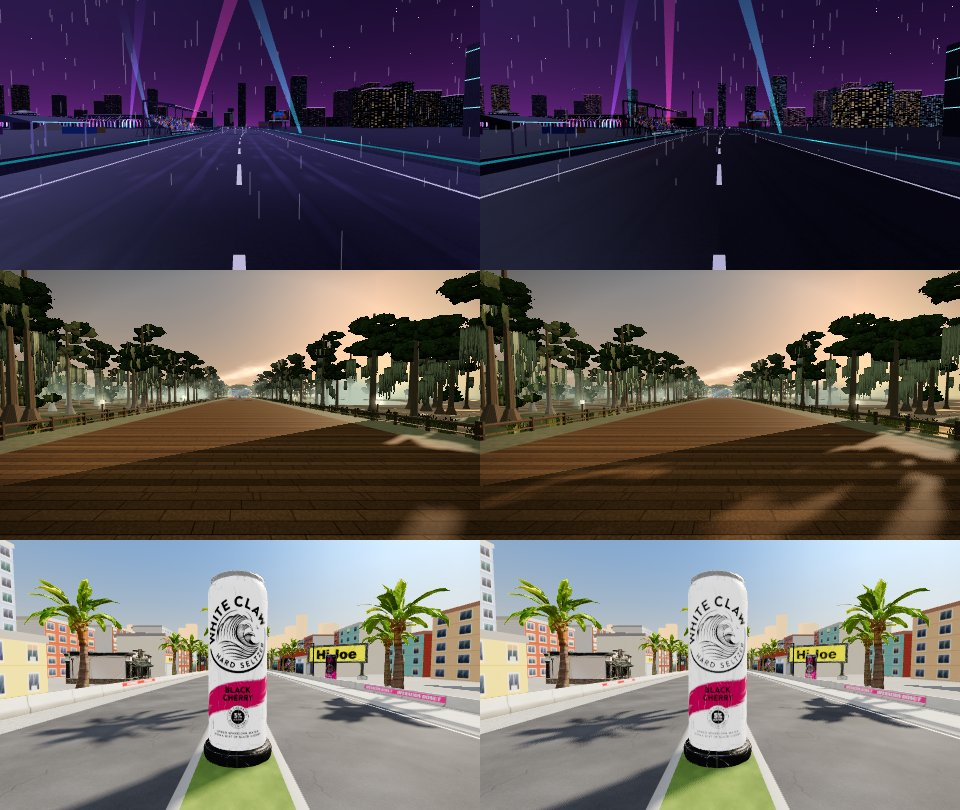
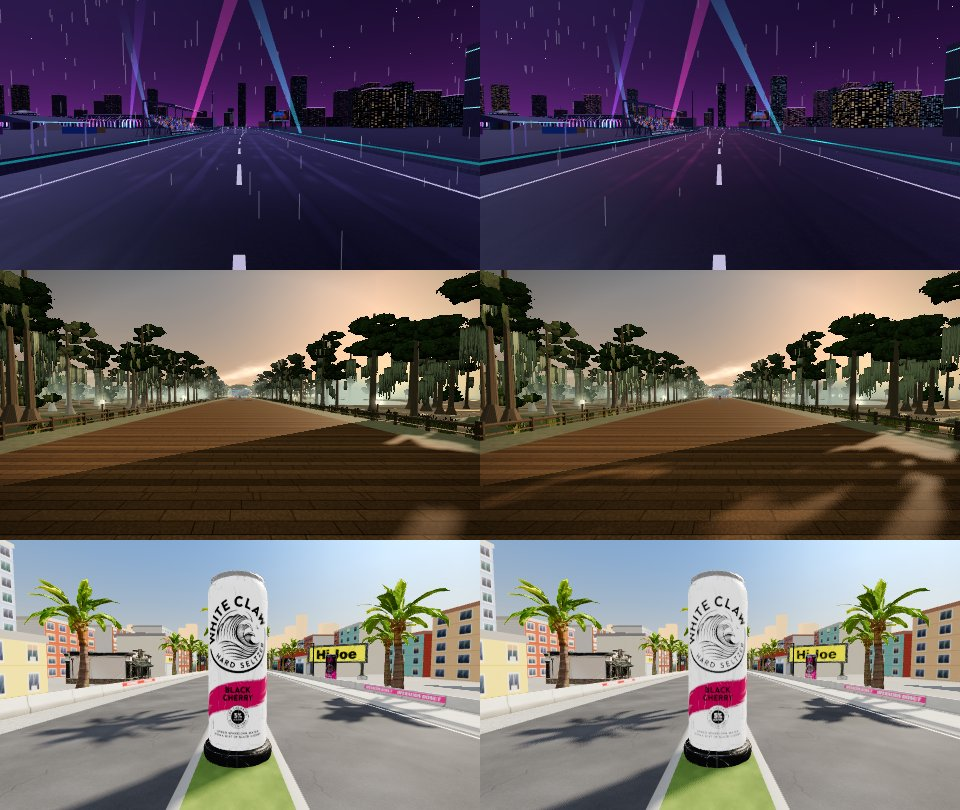
Graphics V2 Phase 2: final parity numbers and other-track comparison
Claude-Session: https://claude.ai/code/session_01WCM2CsKUfkebZADsxywb7t

diff --git a/docs/graphics-v2/07-phase2-threejs-migration-report.md b/docs/graphics-v2/07-phase2-threejs-migration-report.md
@@ -43,7 +43,7 @@ r186 and r128.
 | Normalised attributes are denormalised by `getX()` (r139+) | Revolution height grid and culling bounds read quantised positions | No change needed: that code reads the raw arrays and applies its own factors, so it gives the same result on both versions |
 | Default shader precision / GLSL 3 | All 10 custom `ShaderMaterial`s (sky, ocean, neon ×n, Revolution water and portal) | No change needed: they only use `fog_*`, `common`, `begin_vertex` and `project_vertex`, which still exist, and three's GLSL3 shims keep `gl_FragColor`/`texture2D` working |
 | Each texture map has its own UV transform (r151); r128 used `map`'s transform for every map | Neon Foundry's puddle roughness map (its own repeat) | `GFX.compat.legacyUVTransforms(scene)` on legacy looks |
-| PMREM rough mips are much darker for dark environments with small bright emitters (measured ≈10× on the Neon wet road) | Neon Foundry wet-road sheen | `GFX.compat.tagLegacyEnv(env,12)` + `applyLegacyEnv`: roughness-weighted envMapIntensity compensation on legacy looks (Neon diff 15.2 → 6.3/255) |
+| PMREM rough mips are much darker for dark environments with small bright emitters (measured ≈10× on the Neon wet road) | Neon Foundry wet-road sheen | `GFX.compat.tagLegacyEnv(env,12)` + `applyLegacyEnv`: roughness-weighted envMapIntensity compensation on legacy looks (Neon diff 15.2 → 5.9/255) |
 | `renderer.info` counting | Per-frame stats | `info.autoReset=false`, reset once per frame, so post passes are counted too; the shadow pass is counted separately |
 
 ## Parity result (legacy look on r186 vs `main` on r128)
@@ -54,9 +54,9 @@ Same camera, same frame, `parity.js` (software GPU, 480×270), mean absolute pix
 |---|---|---|
 | Pacifica | **1.5 / 255** | indistinguishable |
 | Sweet Justice | 2.8 / 255 | |
-| Menu / showroom | 4.4 / 255 | animated neon strips |
-| Revolution | 6.8 / 255 | flags, smoke and cannon fire are time-based |
-| Neon Foundry | 6.3 / 255 (15.2 before the PMREM compensation) | rain and LEDs are animated |
+| Menu / showroom | 4.6 / 255 | animated neon strips |
+| Revolution | 6.4 / 255 | flags, smoke and cannon fire are time-based |
+| Neon Foundry | 5.9 / 255 (15.2 before the PMREM compensation) | rain and LEDs are animated; the wet-road sheen is back, slightly more magenta |
 
 All tracks launch and render with no console errors. Scene-pass draw calls on Pacifica match r128
 exactly in every benchmark shot (54 / 54 / 73 / 57 / 147 / 45).
@@ -87,3 +87,5 @@ exactly in every benchmark shot (54 / 54 / 73 / 57 / 147 / 45).
    the limit.
 5. **The bundle includes GTAO/LUT code** even on devices where the tier never uses it (about 290 KB gzip in
    total, versus about 150 KB for r128). Acceptable; it could be split later.
+
+Side by side (left `main` on r128, right `graphics-v2`): `img/phase2/other_tracks_main_vs_v2.jpg`, `img/phase2/parity_r128_r186.jpg`.

diff --git a/docs/graphics-v2/14-known-issues.md b/docs/graphics-v2/14-known-issues.md
@@ -5,15 +5,15 @@
    Links to run it yourself: 13 · Performance.
 2. **Legacy look on r186 is not pixel-identical everywhere.**
    - Pacifica: mean difference 1.5/255 (indistinguishable).
-   - Sweet Justice: 2.8/255, Revolution: 6.8/255 (animated flags, smoke, cannon fire and rain differ frame
+   - Sweet Justice: 2.8/255, Revolution: 6.4/255 (animated flags, smoke, cannon fire and rain differ frame
      to frame, so part of it is time, not rendering).
    - **Neon Foundry**: r128's PMREM gave the dark, emitter-lit wet-road environment much brighter rough
      reflections (the purple wet-road sheen). Found by isolating each light and the env map: with the env
      off, both versions match exactly. Restored with a measured, roughness-weighted compensation
-     (`GFX.compat.tagLegacyEnv(env,12)` / `applyLegacyEnv`): the mean difference drops from 15.2 to 6.3/255,
+     (`GFX.compat.tagLegacyEnv(env,12)` / `applyLegacyEnv`): the mean difference drops from 15.2 to 5.9/255,
      and the rest is the rain and animated LEDs. It is a calibrated match, not an exact one. Neon should get
      its own V2 look in Phase 3, which removes the compensation.
-   - **Showroom/menu**: 4.4/255 (compensation tested and rejected: it made it worse). The difference is
+   - **Showroom/menu**: 4.6/255 (compensation tested and rejected: it made it worse). The difference is
      small and mostly in the animated neon strips.
 3. **Races are not deterministic**, not even OLD vs OLD with a fixed random seed (the simulation
    takes wall-clock input). So gameplay parity was verified by a code diff instead: the only `game.js`
